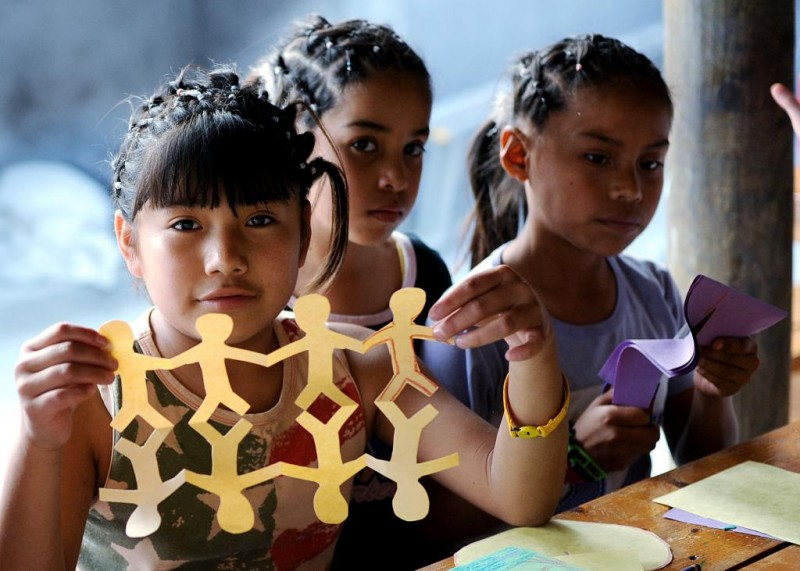
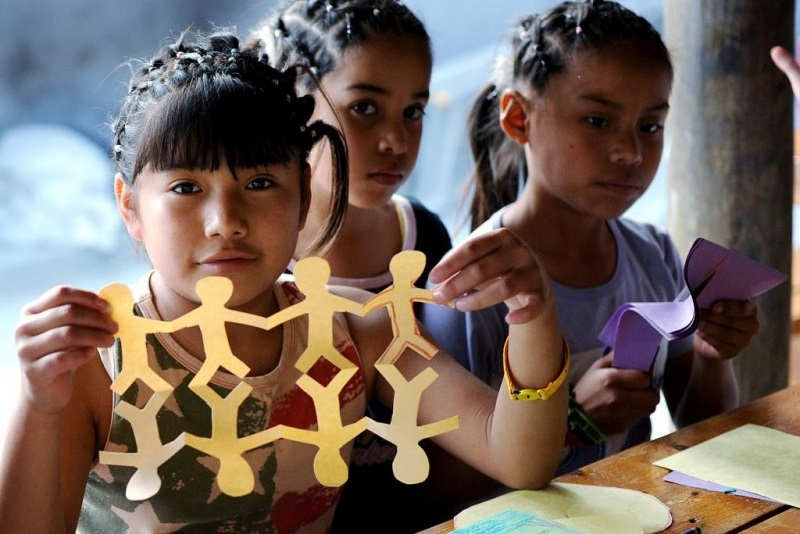
worked on volunteering

diff --git a/volunteer.html b/volunteer.html
@@ -120,8 +120,8 @@
                                         <li data-thumb="assets/img/slide-volunteering/volunteer1.jpg">
                                             <img src="assets/img/slide-volunteering/volunteer1.jpg" />
                                         </li>
-                                        <li data-thumb="assets/img/slide-volunteering/volunteer2.jpg">
-                                            <img src="assets/img/slide-volunteering/volunteer2.jpg" />
+                                        <li data-thumb="assets/img/slide-volunteering/img_2017.jpg">
+                                            <img src="assets/img/slide-volunteering/img_2017.jpg" />
                                         </li>
                                         <li data-thumb="assets/img/slide-volunteering/volunteer3.jpg">
                                             <img src="assets/img/slide-volunteering/volunteer3.jpg" />
@@ -135,73 +135,8 @@
                         </div>
 
                         <div class="single-property-wrapper">
-                            <div class="single-property-header">
-                                <h1 class="property-title pull-left">Villa in Coral Gables</h1>
-                                <span class="property-price pull-right">$825,000</span>
-                            </div>
-
+                            
                             <div class="property-meta entry-meta clearfix ">
-
-                                <div class="col-xs-3 col-sm-3 col-md-3 p-b-15">
-                                    <span class="property-info-icon icon-tag">
-                                        <svg xmlns="http://www.w3.org/2000/svg" width="30" height="30" viewBox="0 0 48 48">
-                                        <path class="meta-icon" fill-rule="evenodd" clip-rule="evenodd" fill="#FFA500" d="M47.199 24.176l-23.552-23.392c-.504-.502-1.174-.778-1.897-.778l-19.087.09c-.236.003-.469.038-.696.1l-.251.1-.166.069c-.319.152-.564.321-.766.529-.497.502-.781 1.196-.778 1.907l.092 19.124c.003.711.283 1.385.795 1.901l23.549 23.389c.221.218.482.393.779.523l.224.092c.26.092.519.145.78.155l.121.009h.012c.239-.003.476-.037.693-.098l.195-.076.2-.084c.315-.145.573-.319.791-.539l18.976-19.214c.507-.511.785-1.188.781-1.908-.003-.72-.287-1.394-.795-1.899zm-35.198-9.17c-1.657 0-3-1.345-3-3 0-1.657 1.343-3 3-3 1.656 0 2.999 1.343 2.999 3 0 1.656-1.343 3-2.999 3z"></path>
-                                        </svg>
-                                    </span>
-                                    <span class="property-info-entry">
-                                        <span class="property-info-label">Status</span>
-                                        <span class="property-info-value">For Sale</span>
-                                    </span>
-                                </div>
-
-                                <div class="col-xs-3 col-sm-3 col-md-3 p-b-15">
-                                    <span class="property-info icon-area">
-                                        <svg xmlns="http://www.w3.org/2000/svg" width="30" height="30" viewBox="0 0 48 48">
-                                        <path class="meta-icon" fill="#FFA500" d="M46 16v-12c0-1.104-.896-2.001-2-2.001h-12c0-1.103-.896-1.999-2.002-1.999h-11.997c-1.105 0-2.001.896-2.001 1.999h-12c-1.104 0-2 .897-2 2.001v12c-1.104 0-2 .896-2 2v11.999c0 1.104.896 2 2 2v12.001c0 1.104.896 2 2 2h12c0 1.104.896 2 2.001 2h11.997c1.106 0 2.002-.896 2.002-2h12c1.104 0 2-.896 2-2v-12.001c1.104 0 2-.896 2-2v-11.999c0-1.104-.896-2-2-2zm-4.002 23.998c0 1.105-.895 2.002-2 2.002h-31.998c-1.105 0-2-.896-2-2.002v-31.999c0-1.104.895-1.999 2-1.999h31.998c1.105 0 2 .895 2 1.999v31.999zm-5.623-28.908c-.123-.051-.256-.078-.387-.078h-11.39c-.563 0-1.019.453-1.019 1.016 0 .562.456 1.017 1.019 1.017h8.935l-20.5 20.473v-8.926c0-.562-.455-1.017-1.018-1.017-.564 0-1.02.455-1.02 1.017v11.381c0 .562.455 1.016 1.02 1.016h11.39c.562 0 1.017-.454 1.017-1.016 0-.563-.455-1.019-1.017-1.019h-8.933l20.499-20.471v8.924c0 .563.452 1.018 1.018 1.018.561 0 1.016-.455 1.016-1.018v-11.379c0-.132-.025-.264-.076-.387-.107-.249-.304-.448-.554-.551z"></path>
-                                        </svg>
-                                    </span>
-                                    <span class="property-info-entry">
-                                        <span class="property-info-label">Area</span>
-                                        <span class="property-info-value">3500<b class="property-info-unit">Sq Ft</b></span>
-                                    </span>
-                                </div>
-
-                                <div class="col-xs-3 col-sm-3 col-md-3 p-b-15">
-                                    <span class="property-info-icon icon-bed">
-                                        <svg xmlns="http://www.w3.org/2000/svg" width="30" height="30" viewBox="0 0 48 48">
-                                        <path class="meta-icon" fill="#FFA500" d="M21 48.001h-19c-1.104 0-2-.896-2-2v-31c0-1.104.896-2 2-2h19c1.106 0 2 .896 2 2v31c0 1.104-.895 2-2 2zm0-37.001h-19c-1.104 0-2-.895-2-1.999v-7.001c0-1.104.896-2 2-2h19c1.106 0 2 .896 2 2v7.001c0 1.104-.895 1.999-2 1.999zm25 37.001h-19c-1.104 0-2-.896-2-2v-31c0-1.104.896-2 2-2h19c1.104 0 2 .896 2 2v31c0 1.104-.896 2-2 2zm0-37.001h-19c-1.104 0-2-.895-2-1.999v-7.001c0-1.104.896-2 2-2h19c1.104 0 2 .896 2 2v7.001c0 1.104-.896 1.999-2 1.999z"></path>
-                                        </svg>
-                                    </span>
-                                    <span class="property-info-entry">
-                                        <span class="property-info-label">Bedrooms</span>
-                                        <span class="property-info-value">3</span>
-                                    </span>
-                                </div>
-
-                                <div class="col-xs-3 col-sm-3 col-md-3 p-b-15">
-                                    <span class="property-info-icon icon-bath">
-                                        <svg xmlns="http://www.w3.org/2000/svg" width="30" height="30" viewBox="0 0 48 48">
-                                        <path class="meta-icon" fill="#FFA500" d="M37.003 48.016h-4v-3.002h-18v3.002h-4.001v-3.699c-4.66-1.65-8.002-6.083-8.002-11.305v-4.003h-3v-3h48.006v3h-3.001v4.003c0 5.223-3.343 9.655-8.002 11.305v3.699zm-30.002-24.008h-4.001v-17.005s0-7.003 8.001-7.003h1.004c.236 0 7.995.061 7.995 8.003l5.001 4h-14l5-4-.001.01.001-.009s.938-4.001-3.999-4.001h-1s-4 0-4 3v17.005000000000003h-.001z"></path>
-                                        </svg>
-                                    </span>
-                                    <span class="property-info-entry">
-                                        <span class="property-info-label">Bathrooms</span>
-                                        <span class="property-info-value">3.5</span>
-                                    </span>
-                                </div>
-
-                                <div class="col-xs-3 col-sm-3 col-md-3 p-b-15">
-                                    <span class="property-info-icon icon-garage">
-                                        <svg xmlns="http://www.w3.org/2000/svg" width="30" height="30" viewBox="0 0 48 48">
-                                        <path class="meta-icon" fill="#FFA500" d="M44 0h-40c-2.21 0-4 1.791-4 4v44h6v-40c0-1.106.895-2 2-2h31.999c1.106 0 2.001.895 2.001 2v40h6v-44c0-2.209-1.792-4-4-4zm-36 8.001h31.999v2.999h-31.999zm0 18h6v5.999h-2c-1.104 0-2 .896-2 2.001v6.001c0 1.103.896 1.998 2 1.998h2v2.001c0 1.104.896 2 2 2s2-.896 2-2v-2.001h11.999v2.001c0 1.104.896 2 2.001 2 1.104 0 2-.896 2-2v-2.001h2c1.104 0 2-.895 2-1.998v-6.001c0-1.105-.896-2.001-2-2.001h-2v-5.999h5.999v-3h-31.999v3zm8 12.999c-1.104 0-2-.895-2-1.999s.896-2 2-2 2 .896 2 2-.896 1.999-2 1.999zm10.5 2h-5c-.276 0-.5-.225-.5-.5 0-.273.224-.498.5-.498h5c.275 0 .5.225.5.498 0 .275-.225.5-.5.5zm1-2h-7c-.275 0-.5-.225-.5-.5s.226-.499.5-.499h7c.275 0 .5.224.5.499s-.225.5-.5.5zm-6.5-2.499c0-.276.224-.5.5-.5h5c.275 0 .5.224.5.5s-.225.5-.5.5h-5c-.277 0-.5-.224-.5-.5zm11 2.499c-1.104 0-2.001-.895-2.001-1.999s.896-2 2.001-2c1.104 0 2 .896 2 2s-.896 1.999-2 1.999zm0-12.999v5.999h-16v-5.999h16zm-24-13.001h31.999v3h-31.999zm0 5h31.999v3h-31.999z"></path>
-                                        </svg>
-                                    </span>
-                                    <span class="property-info-entry">
-                                        <span class="property-info-label">Garages</span>
-                                        <span class="property-info-value">2</span>
-                                    </span>
-                                </div>
-
 
                             </div>
                             <!-- .property-meta -->
@@ -209,14 +144,14 @@
                             <div class="section">
                                 <h4 class="s-property-title">Description</h4>
                                 <div class="s-property-content">
-                                    <p>Nulla quis dapibus nisl. Suspendisse ultricies Nulla quis dapibus nisl. Suspendisse ultricies commodo arcu nec pretium. Nullam sed arcu ultricies commodo arcu nec pretium. Nullam sed arcu ultricies Nulla quis dapibus nisl. Suspendisse ultricies commodo arcu nec pretium. Nullam sed arcu ultricies Nulla quis dapibus nisl. Suspendisse ultricies commodo arcu nec pretium. Nullam sed arcu ultricies                                </p>
+                                    <p>Volunteering is good</p>
                                 </div>
                             </div>
                             <!-- End description area  -->
 
                             <div class="section additional-details">
 
-                                <h4 class="s-property-title">Additional Details</h4>
+                                <h4 class="s-property-title">Volunteer Sign-Up</h4>
 
                                 <ul class="additional-details-list clearfix">
                                     <li>
@@ -268,7 +203,7 @@
                             <!-- End features area  -->
 
                             <div class="section property-video">
-                                <h4 class="s-property-title">Property Video</h4>
+                                <h4 class="s-property-title">Volunteering</h4>
                                 <div class="video-thumb">
                                     <a class="video-popup" href="yout" title="Virtual Tour">
                                         <img src="assets/img/property-video.jpg" class="img-responsive wp-post-image" alt="Exterior">
@@ -286,16 +221,12 @@
                                     <div class="inner-wrapper">
 
                                         <div class="clear">
-                                            <div class="col-xs-4 col-sm-4 dealer-face">
-                                                <a href="">
-                                                    <img src="assets/img/client-face1.png" class="img-circle">
-                                                </a>
-                                            </div>
                                             <div class="col-xs-8 col-sm-8 ">
                                                 <h3 class="dealer-name">
-                                                    <a href="">Nathan James</a>
-                                                    <span>Real Estate Agent</span>
+                                                    <a href=""></a>
+                                                    <span>Volunteering in Mason</span>
                                                 </h3>
+                                                <!--
                                                 <div class="dealer-social-media">
                                                     <a class="twitter" target="_blank" href="https://twitter.com/madechamber">
                                                         <i class="fa fa-twitter"></i>
@@ -312,7 +243,7 @@
                                                     <a class="instagram" target="_blank" href="https://www.instagram.com/madechamber">
                                                         <i class="fa fa-instagram"></i>
                                                     </a>
-                                                </div>
+                                                </div>-->
 
                                             </div>
                                         </div>
@@ -323,7 +254,7 @@
                                                 <li><i class="pe-7s-mail strong"> </i> email@yourcompany.com</li>
                                                 <li><i class="pe-7s-call strong"> </i> +1 908 967 5906</li>
                                             </ul>
-                                            <p>Duis mollis  blandit tempus porttitor curabiturDuis mollis  blandit tempus porttitor curabitur , est non…</p>
+                                            <p>Contact us for any additional information</p>
                                         </div>
 
                                     </div>
